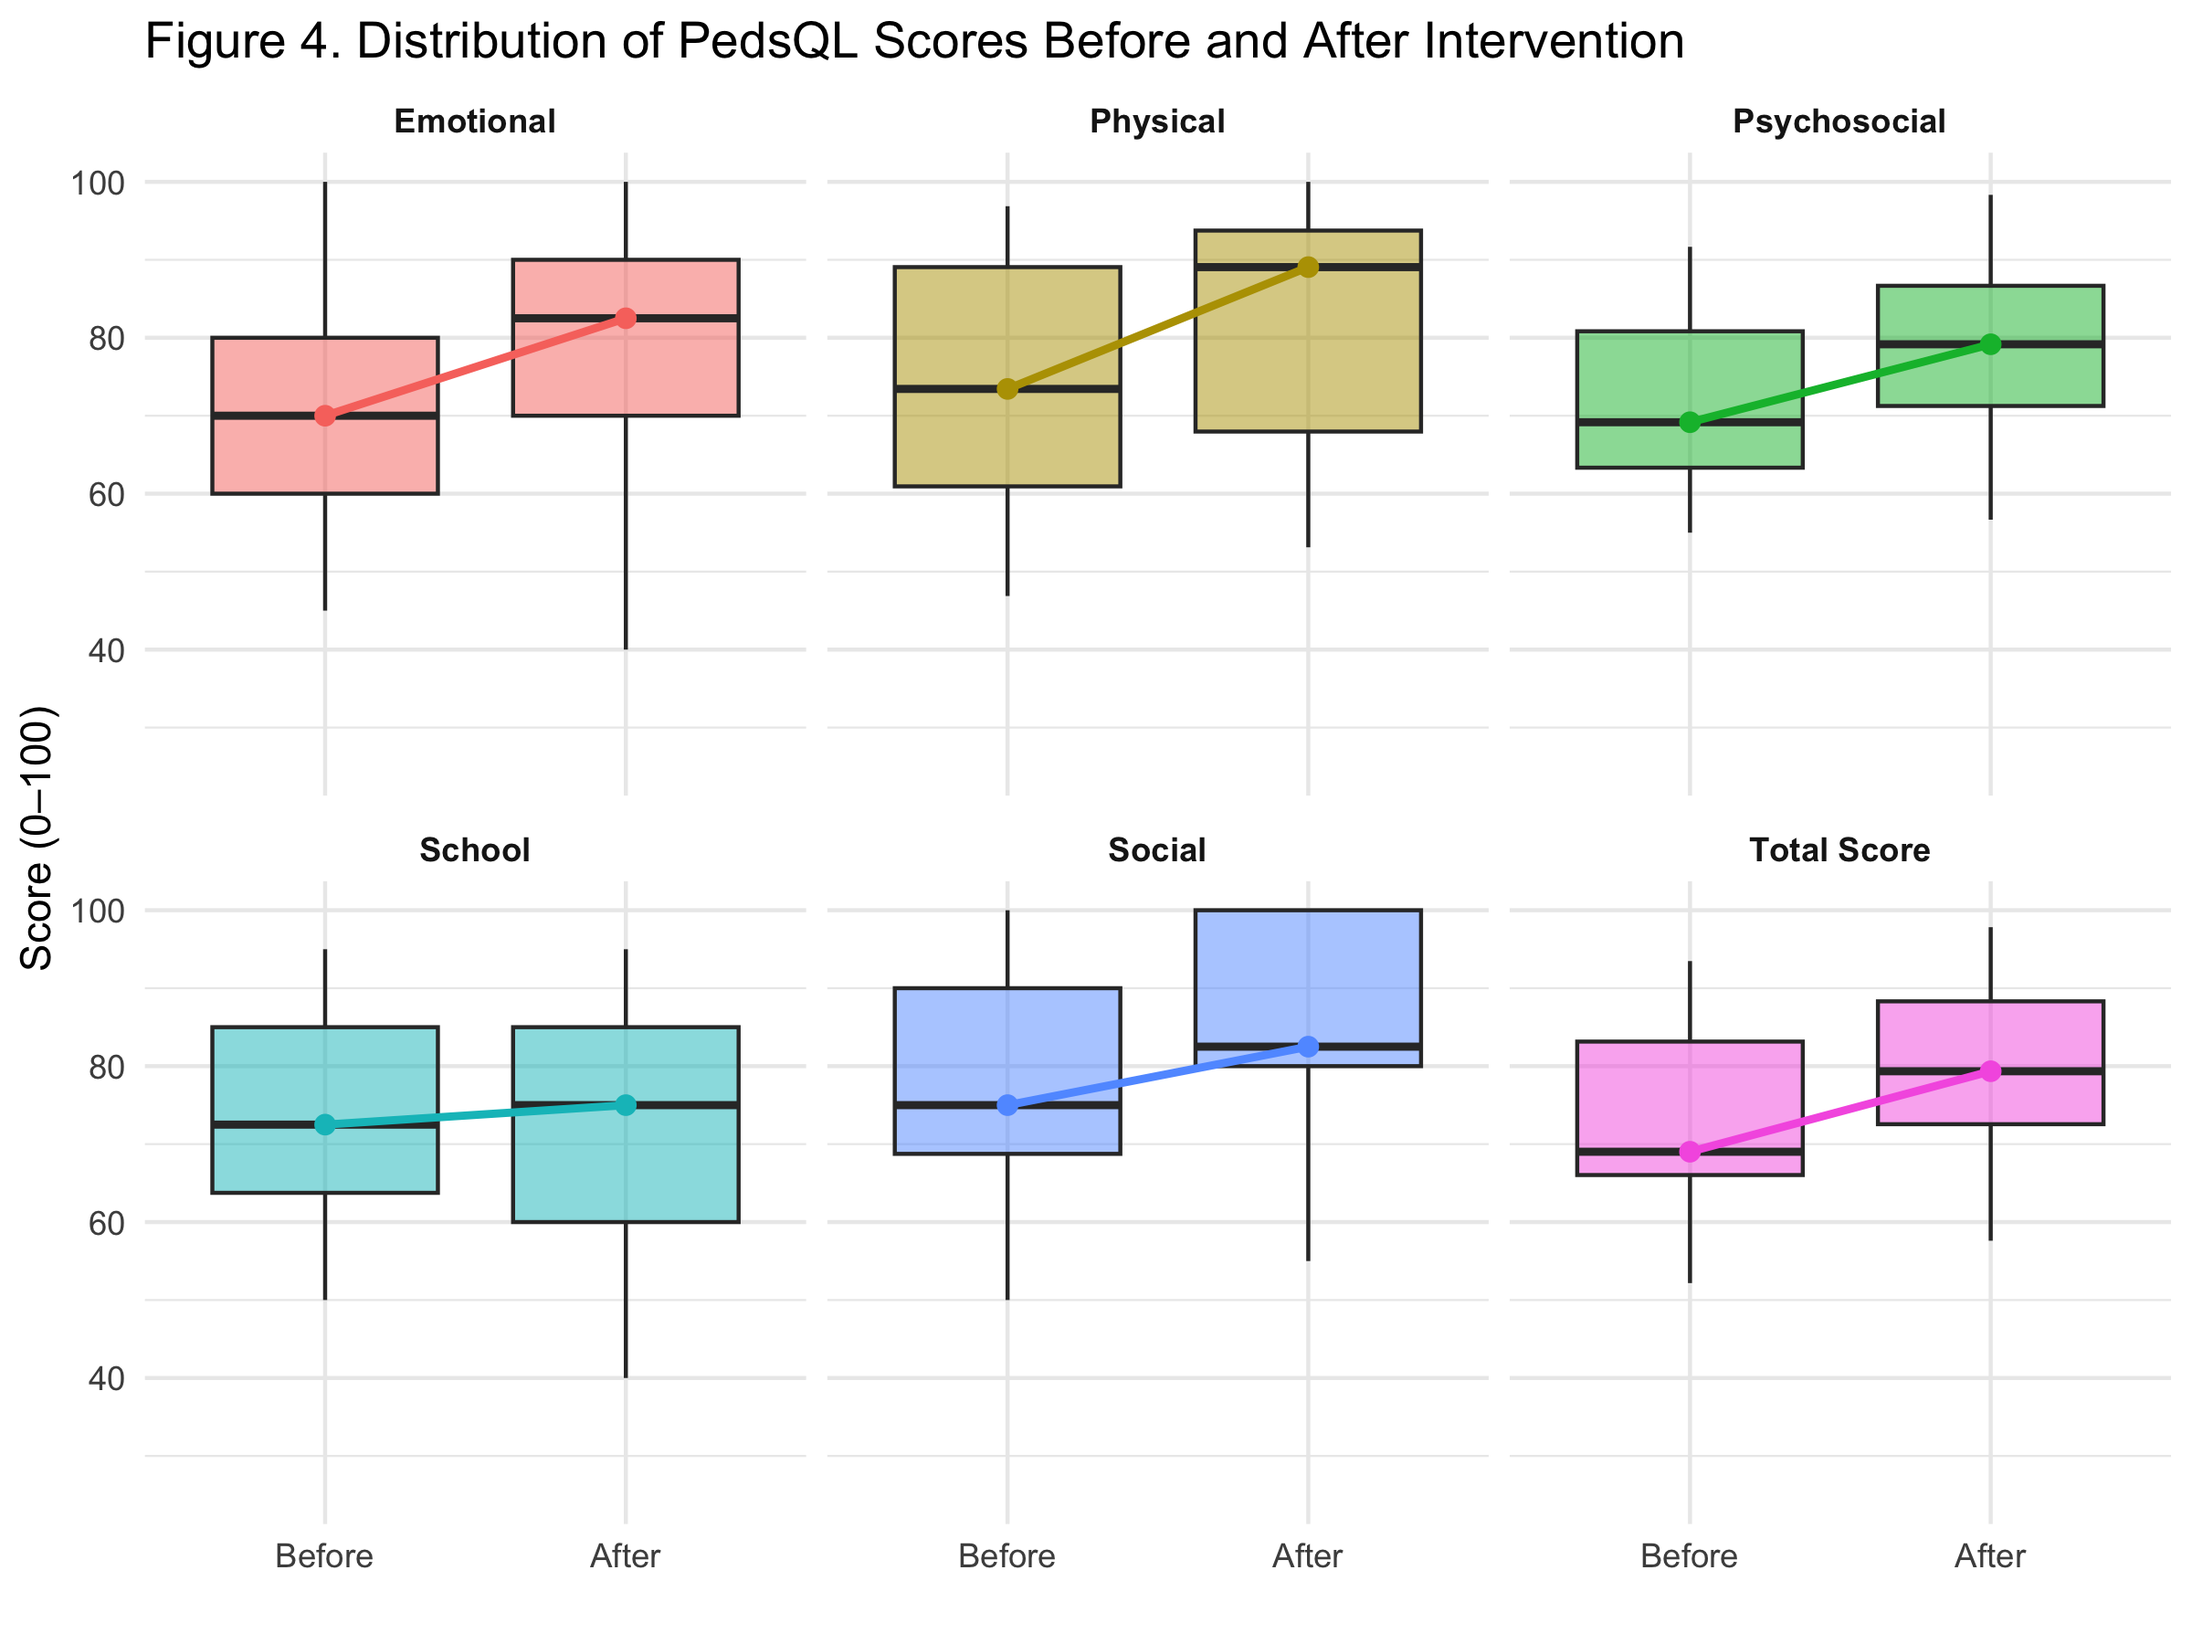
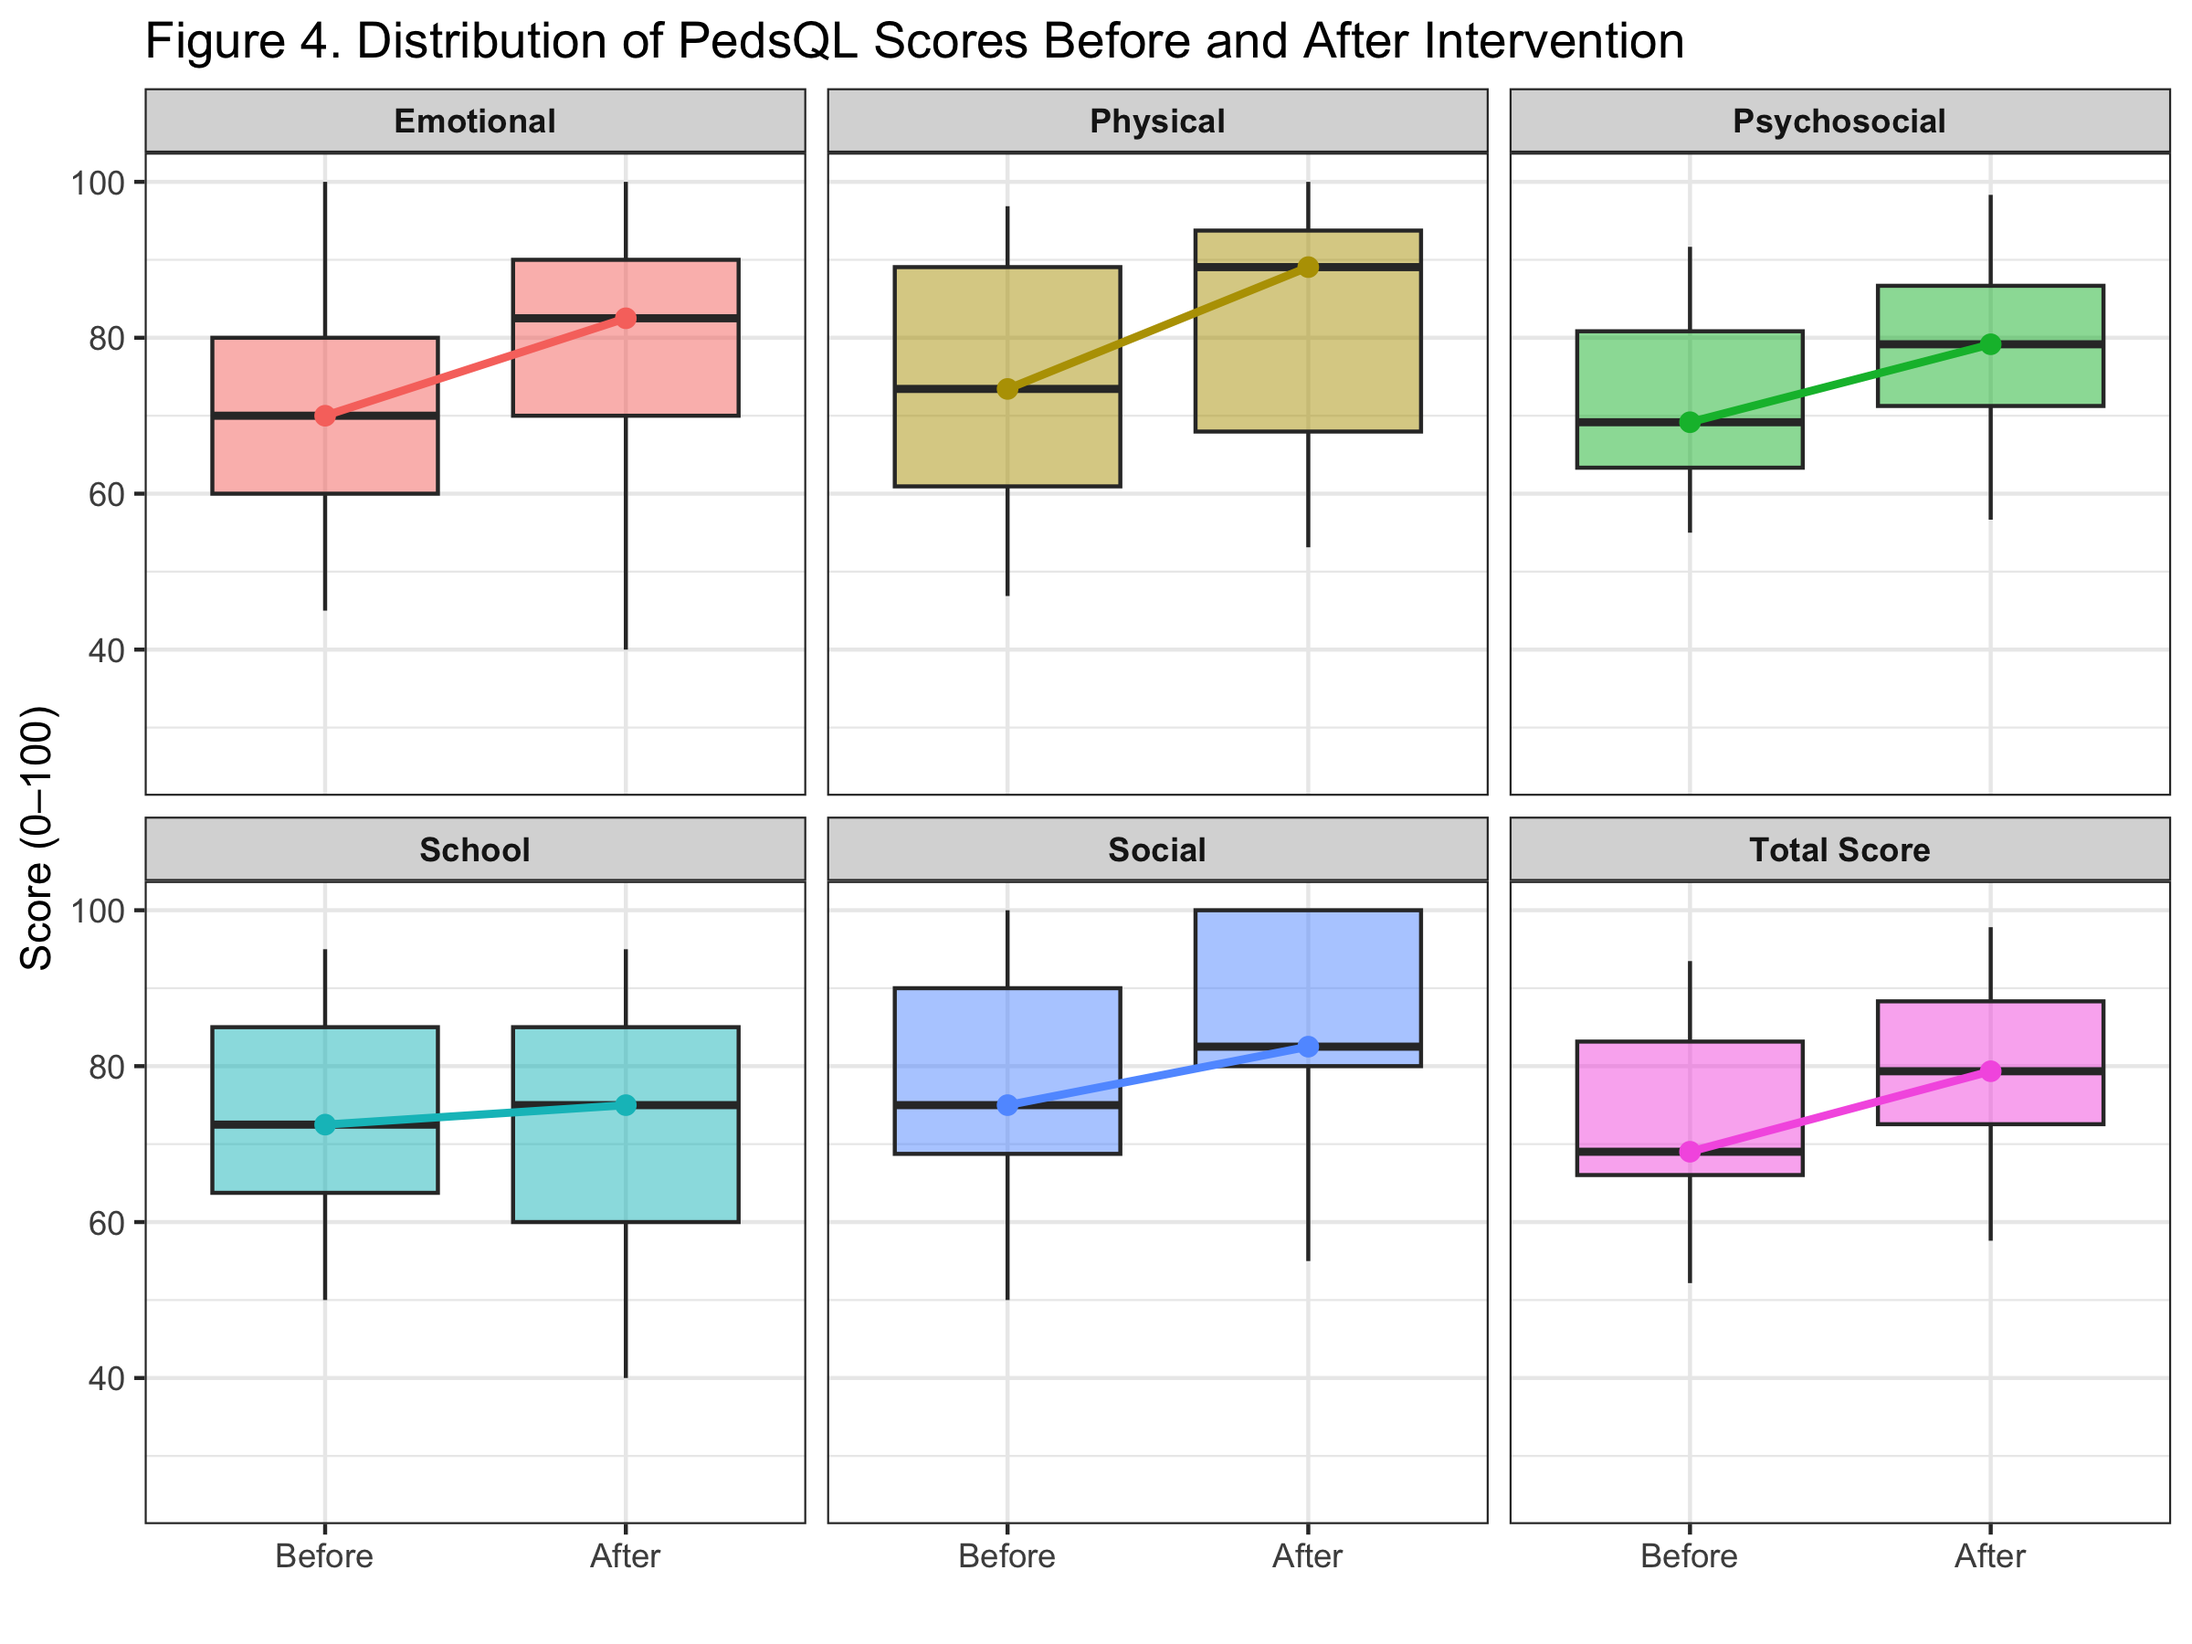
update pedsql

Changed region(s): [[0.0625, 0.4667, 1.0, 0.56], [0.0625, 0.0311, 1.0, 0.0933]]

diff --git a/readme.md b/readme.md
@@ -68,7 +68,7 @@ Exploratory data analysis was performed using graphical representations (boxplot
 
 Finally, cleaned and excluded datasets were exported for subsequent statistical analysis in R.
 
-### 1.4.2 R: statistical analysis
+### 1.4.2 R: data preprocessing and statistical analysis
 
 The cleaned datasets were imported into R for statistical analysis.
 
